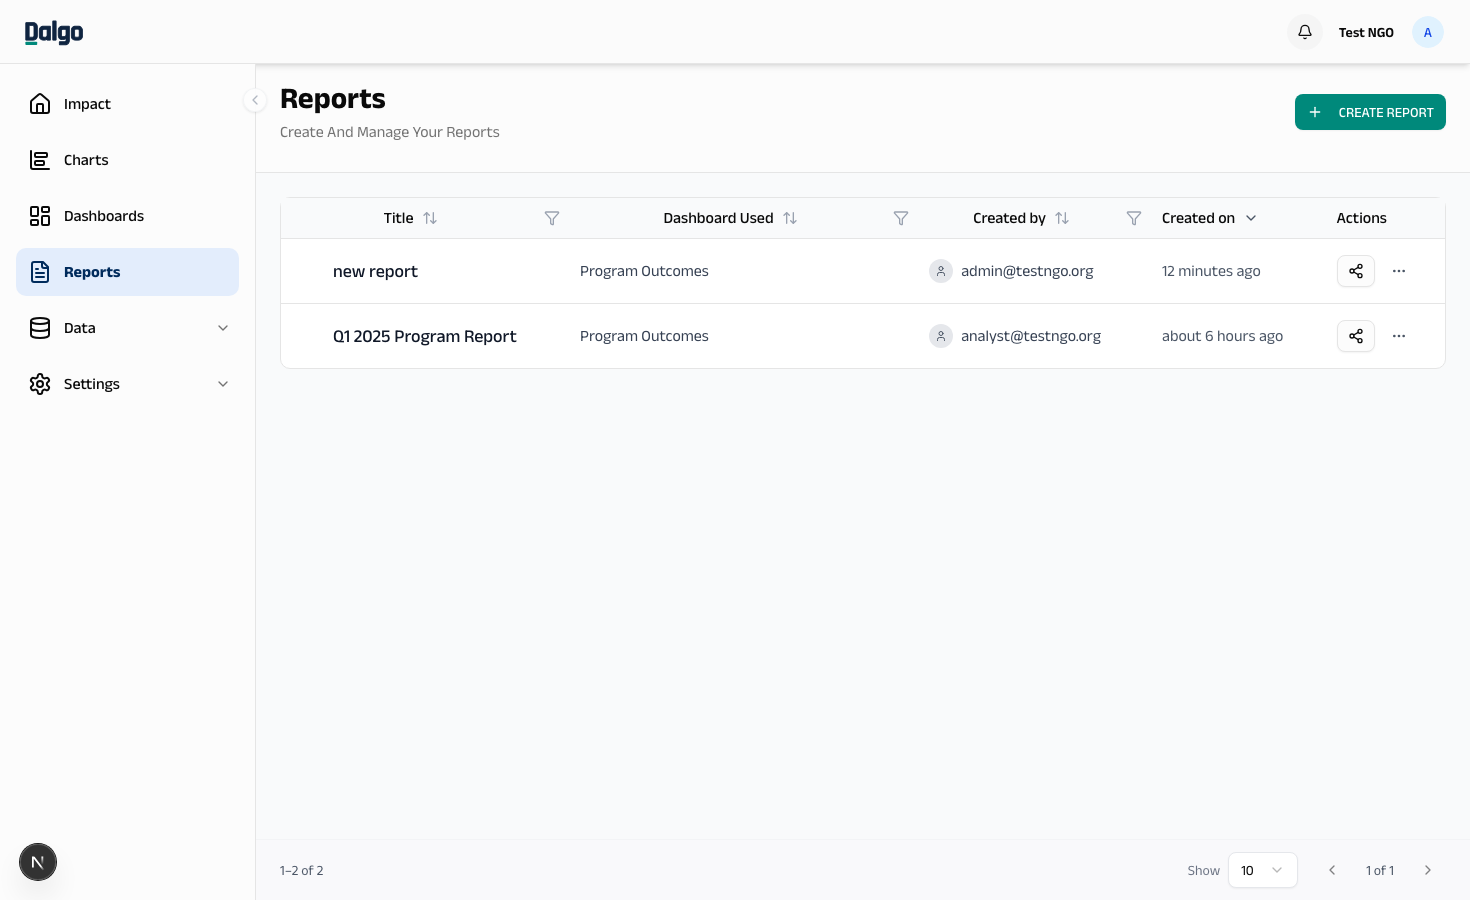
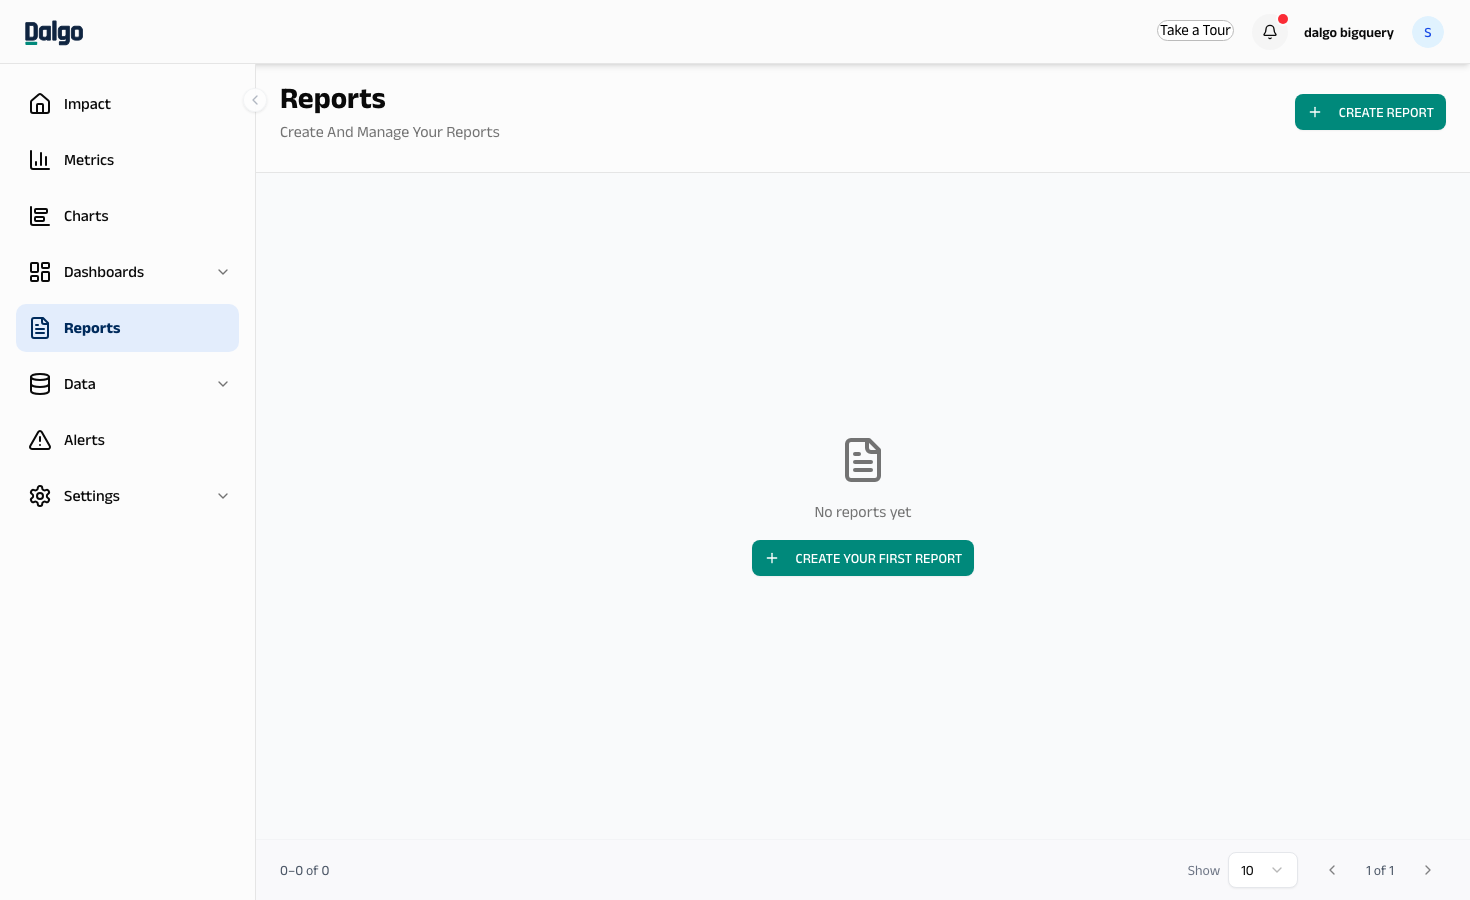
docs: add screenshots for all feature pages
Captured from staging-app.dalgo.org using Playwright:
- Pipeline Overview — bar chart cards
- User Management — users table + Invite User dialog
- Usage Dashboard — embedded Superset view
- Ingest — Connections list, Sources list, Add Source dialog, Warehouse form
- Dashboards — dashboard list, builder canvas, chart type selector
- Reports — list, create report dialog
- Orchestrate — updated pipeline list

Replaced all <!-- SCREENSHOT: --> placeholders with real image tags.
4 interactive-state screenshots remain as placeholders (pipeline logs,
reports share/comment, superset sign-in, warehouse test result).

diff --git a/docs/analysis/dalgo-dashboards.md b/docs/analysis/dalgo-dashboards.md
@@ -12,7 +12,7 @@ You can create multiple dashboards for different audiences, such as a field team
 
 1. Select **Dashboards** on the left menu panel.
 
-<!-- SCREENSHOT: Dashboard list showing dashboard cards with names, last modified date, and action buttons -->
+![Dashboard list](/img/analysis/dashboard_list.png)
 
 You will see all dashboards in your organisation. Use the search bar to find a dashboard by name.
 
@@ -23,7 +23,7 @@ You will see all dashboards in your organisation. Use the search bar to find a d
 3. Drag charts to reposition them. Drag the edges or corners to resize.
 4. Select **Save** when you are done.
 
-<!-- SCREENSHOT: Dashboard builder with charts on the canvas and the Add Chart panel open -->
+![Dashboard builder](/img/analysis/dashboard_builder.png)
 
 :::info
 Dalgo creates a draft dashboard the moment you select **+ Create Dashboard**. If you leave without saving, the draft is kept — you can continue editing it from the dashboard list.
@@ -57,7 +57,7 @@ Charts are created separately and then added to dashboards.
    - **Table** — display raw data in rows and columns
 4. Select the **dataset** (database table) your chart will draw from, then select **Configure**.
 
-<!-- SCREENSHOT: Chart type selection screen showing Bar, Pie, Line, Number, Map, and Table options -->
+![Chart type selector](/img/analysis/chart_type_selector.png)
 
 5. In the configuration screen, choose which columns to use for axes, values, filters, and labels.
 6. Give your chart a name and select **Save**.

diff --git a/docs/ingest/sources.md b/docs/ingest/sources.md
@@ -13,7 +13,7 @@ When you add a source in Dalgo, you are saving the access credentials for that s
 1. Select **Ingest** on the left menu panel.
 2. Select the **Sources** tab.
 
-<!-- SCREENSHOT: Sources tab showing the source list with search bar and Add Source button -->
+![Sources list](/img/ingest/sources_list.png)
 
 You will see a list of all sources added to your organisation. Use the search bar to find a source by name or type.
 
@@ -26,7 +26,7 @@ You will see a list of all sources added to your organisation. Use the search ba
 5. Select **Test Connection**. Dalgo will confirm it can reach the source.
 6. Select **Save** once the test succeeds.
 
-<!-- SCREENSHOT: Add Source dialog showing source type selector and credential fields -->
+![Add Source dialog](/img/ingest/sources_add.png)
 
 ## Editing or deleting a source
 

diff --git a/docs/managing-data/user-management.md b/docs/managing-data/user-management.md
@@ -10,7 +10,7 @@ sidebar_position: 4
 
 1. Select **User Management** on the left menu panel (under Settings).
 
-<!-- SCREENSHOT: User Management page showing the Users tab with a table of current users and their roles -->
+![User Management](/img/managedata/user_management.png)
 
 You will see two tabs:
 
@@ -26,7 +26,7 @@ You will see two tabs:
 
 The user will receive an invitation email. They will appear under **Pending Invitations** until they accept and set up their account.
 
-<!-- SCREENSHOT: Invite User dialog showing email field and role dropdown -->
+![Invite User dialog](/img/managedata/user_management_invite.png)
 
 ## Managing pending invitations
 

diff --git a/docs/ingest/connections.md b/docs/ingest/connections.md
@@ -14,7 +14,7 @@ If a source answers "where does the data live?", a connection answers "which dat
 
 The **Connections** tab is shown by default. You will see a list of all connections in your organisation.
 
-<!-- SCREENSHOT: Connections tab showing the connection list with sync status and action buttons per row -->
+![Connections list](/img/ingest/connections_list.png)
 
 ## Creating a connection
 

diff --git a/docs/ingest/warehouse.md b/docs/ingest/warehouse.md
@@ -13,7 +13,7 @@ Dalgo supports BigQuery and PostgreSQL as warehouse destinations. You need to se
 1. Select **Ingest** on the left menu panel.
 2. Select the **Your Warehouse** tab.
 
-<!-- SCREENSHOT: Your Warehouse tab showing the warehouse form with destination type selector -->
+![Warehouse form](/img/ingest/warehouse_form.png)
 
 3. Select the type of warehouse from the **Destination type** dropdown — either **BigQuery** or **Postgres**.
 4. Enter a name for your warehouse in the **Name** field.

diff --git a/docs/managing-data/pipeline-overview.md b/docs/managing-data/pipeline-overview.md
@@ -12,7 +12,7 @@ This is a read-only status view. To manage or schedule pipelines, go to **Orches
 
 1. Select **Pipeline Overview** under **Managing Data** on the left menu panel.
 
-<!-- SCREENSHOT: Pipeline Overview page showing pipeline cards each with a bar chart of recent runs -->
+![Pipeline Overview](/img/managedata/pipeline_overview.png)
 
 You will see a card for each pipeline. Each card shows:
 

diff --git a/docs/managing-data/usage-dashboard.md b/docs/managing-data/usage-dashboard.md
@@ -16,7 +16,7 @@ The Usage Dashboard requires a Superset subscription. If you see an error messag
 
 The dashboard loads automatically as an embedded Superset view.
 
-<!-- SCREENSHOT: Usage Dashboard page showing the embedded Superset dashboard with charts -->
+![Usage Dashboard](/img/managedata/usage_dashboard.png)
 
 ## Metrics tab
 

diff --git a/docs/reports.md b/docs/reports.md
@@ -24,7 +24,7 @@ A report freezes your dashboard's layout and charts as they were when the report
 
 1. Select **+ CREATE REPORT** in the top-right corner.
 
-<!-- SCREENSHOT: Create report dialog showing dashboard selector, report name, date column, and date range fields -->
+![Create report dialog](/img/reports/reports_create.png)
 
 2. Choose the **Dashboard** you want to create a report from.
 